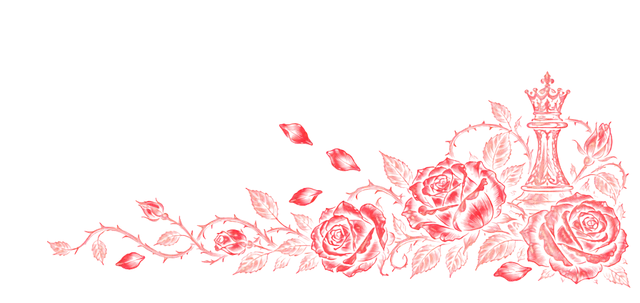
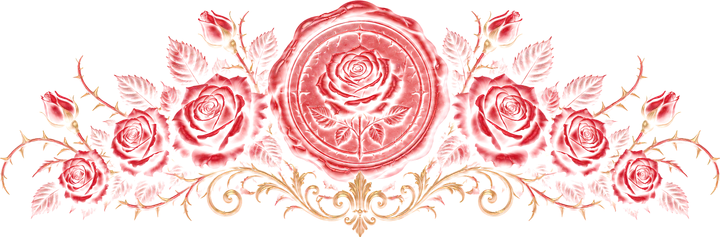
feat(web): center a new wax seal artwork at the foot of the Rias sidebar
The previous garland ran off the bottom-right corner of the navigation. Replace it with a symmetrical crimson wax seal framed by roses and gold filigree, sized to the navigation width and anchored to the bottom center.

diff --git a/apps/web/src/themes/rias/rias.css b/apps/web/src/themes/rias/rias.css
@@ -1291,7 +1291,7 @@
   background-position: bottom left;
 }
 
-/* Art: a garland of roses and a chess queen lying along the foot of the navigation. */
+/* Art: a crimson wax seal framed by roses and gold filigree, centered along the foot of the navigation. */
 .rias [data-slot="sidebar-nav"]::after {
   content: "";
   position: absolute;
@@ -1301,8 +1301,8 @@
   pointer-events: none;
   background-image: url("/themes/rias/sidebar.webp");
   background-repeat: no-repeat;
-  background-size: 112% auto;
-  background-position: right -8px bottom -4px;
+  background-size: 100% auto;
+  background-position: center bottom;
   opacity: 0.8;
   mask-image: linear-gradient(180deg, transparent, black 40%);
 }
